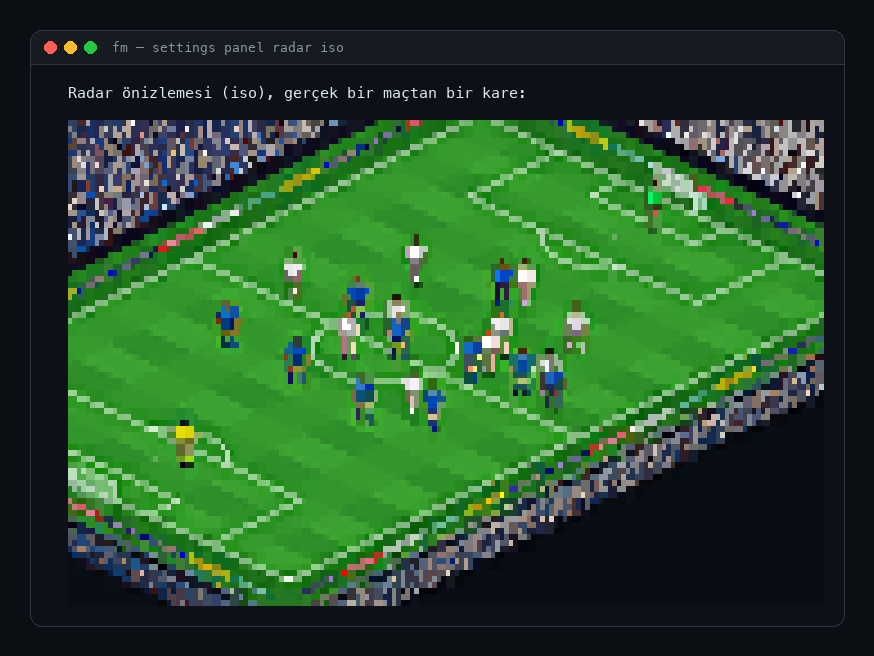
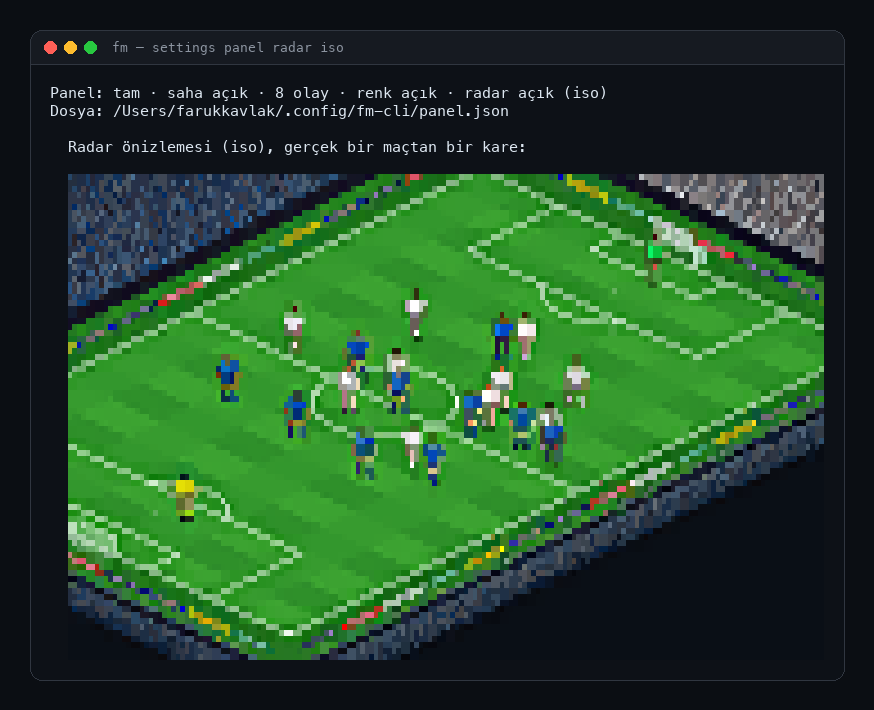
fix: calmer 3D crowds, no board in front of the low camera, wider voxel view

diff --git a/cli/fm/Match/RadarScene.cs b/cli/fm/Match/RadarScene.cs
@@ -32,7 +32,7 @@ internal static partial class Program
 		public bool Checker;
 		public Rgb SkyTop = new(8, 12, 22), SkyBottom = new(22, 30, 44);
 		public Rgb Stand = new(40, 44, 54), StandFace = new(26, 30, 38), Roof = new(18, 20, 26);
-		public double CrowdLight = 1, CrowdDensity = 1, CrowdCalm, ExaggerateBall = 2.4, Rise = 1;
+		public double CrowdLight = 1, CrowdDensity = 1, CrowdCalm, CrowdHaze, ExaggerateBall = 2.4, Rise = 1;
 		public string[] Stands = ["far", "left", "right"];
 		public string Shadows = "flood";
 		public bool Roofs = true, Cutaway;
@@ -95,7 +95,7 @@ internal static partial class Program
 				{
 					Stands = ["far", "near", "left", "right"], SkyTop = new(6, 9, 14), SkyBottom = new(10, 14, 22),
 					GrassA = new(70, 150, 62), GrassB = new(58, 134, 54), Checker = true, Surround = new(48, 112, 46),
-					Shadows = "sun", Roofs = false, Cutaway = true, LineW = 0.42,
+					Shadows = "sun", Roofs = false, Cutaway = true, LineW = 0.42, CrowdHaze = 0.75,
 				};
 				Stadium(st, look, figures, ball, home, away, 3.8);
 				break;
@@ -103,19 +103,19 @@ internal static partial class Program
 			case "raycast":
 			{
 				var target = new V3(fx, fy, 1.3);
-				var eye = new V3(Math.Clamp(fx - 10, -6, PitchLength + 6), Math.Min(fy + 16, PitchWidth + 6), 2.0);
+				var eye = new V3(Math.Clamp(fx - 10, -6, PitchLength + 6), Math.Min(fy + 16, PitchWidth + 6), 3.2);
 				st.Camera(eye, target, fov: 38);
 				var look = new Look
 				{
 					Stands = ["far", "left", "right", "near"], SkyTop = new(10, 14, 34), SkyBottom = new(34, 44, 80),
 					GrassA = new(60, 156, 62), GrassB = new(46, 132, 50), LineW = 0.32, CrowdLight = 1.2,
-					ExaggerateBall = 1.4, Rise = 1.5, CrowdCalm = 0.8,
+					ExaggerateBall = 1.4, Rise = 1.5, CrowdCalm = 0.8, CrowdHaze = 0.7,
 				};
 				Stadium(st, look, figures, ball, home, away, 1.5);
 				break;
 			}
 			default:
-				VoxelScene(st, figures, ball, home, away, (fx, fy), 10.0 * 1.12 * zoom, 0.72);
+				VoxelScene(st, figures, ball, home, away, (fx, fy), 10.0 * 0.8 * zoom, 0.72);
 				break;
 		}
 		return st.Canvas;
@@ -275,6 +275,8 @@ internal static partial class Program
 		var rng = new Random(seed);
 		var seats = new List<(double Depth, double Sx, double Sy, double K, Rgb Colour, Rgb Skin)>(rows * cols);
 		var calm = look.CrowdCalm;
+		// Seat by seat the crowd is noise in a few cells; haze draws each seat toward the stand's own colour.
+		var haze = (sb.HomeShare >= 0.5 ? homeCol : awayCol).Mix(look.Stand, 0.55);
 		for (var r = 0; r < rows; r++)
 			for (var c = 0; c < cols; c++)
 			{
@@ -296,7 +298,7 @@ internal static partial class Program
 				var team = pick < sb.HomeShare ? homeCol : awayCol;
 				var baseColour = other < 0.62 + 0.3 * calm ? team : neutral;
 				var light = (0.55 + 0.45 * (1 - s)) * look.CrowdLight;
-				var colour = Scale(baseColour, light * jitter);
+				var colour = Scale(baseColour.Mix(haze, look.CrowdHaze), light * jitter);
 				seats.Add((cp.Z, sx, sy, k, colour, Scale(skin, light)));
 			}
 		foreach (var seat in seats.OrderByDescending(s => s.Depth))
@@ -490,7 +492,8 @@ internal static partial class Program
 			actors.Add((cam.Depth(new V3(side == 0 ? -1 : PitchLength + 1, PitchWidth / 2, 1.2)), () => Goal(st, side, look)));
 		actors.Add((cam.Depth(ball), () => Ball(st, ball, look)));
 		foreach (var actor in actors.OrderByDescending(a => a.Depth)) actor.Draw();
-		foreach (var s in sides) if (BoardIsNear(s)) Boards(st, s);
+		// A low camera behind a board would see it fill a corner (seen live by the touchline): it looks over it.
+		if (cam.Ortho != null) foreach (var s in sides) if (BoardIsNear(s)) Boards(st, s);
 		foreach (var (n, i) in late) Build(n, i);
 	}
 
